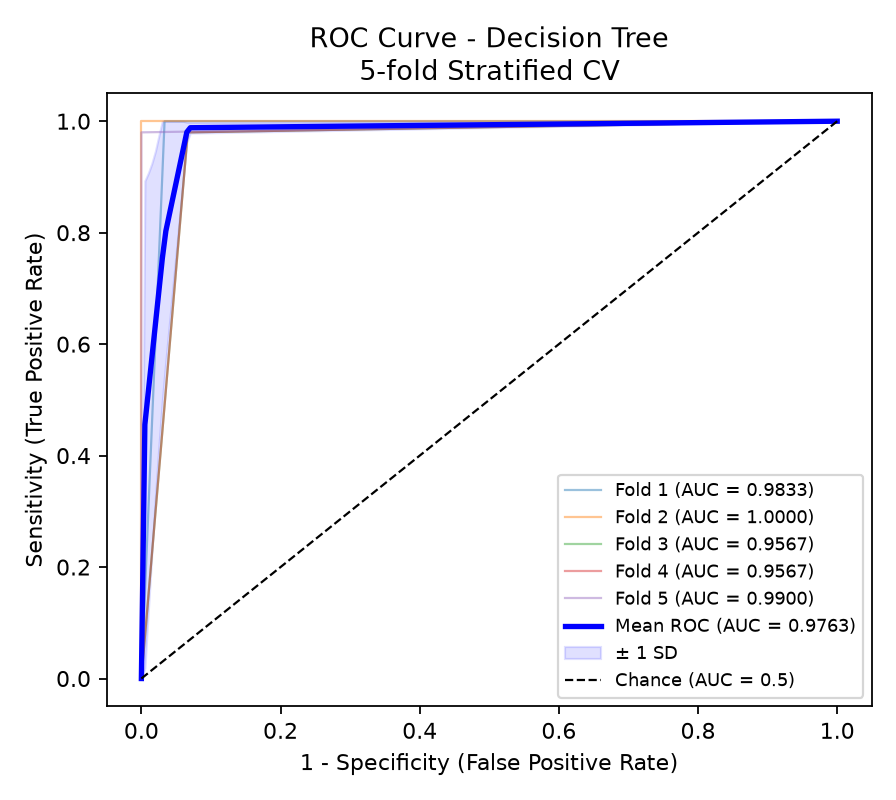
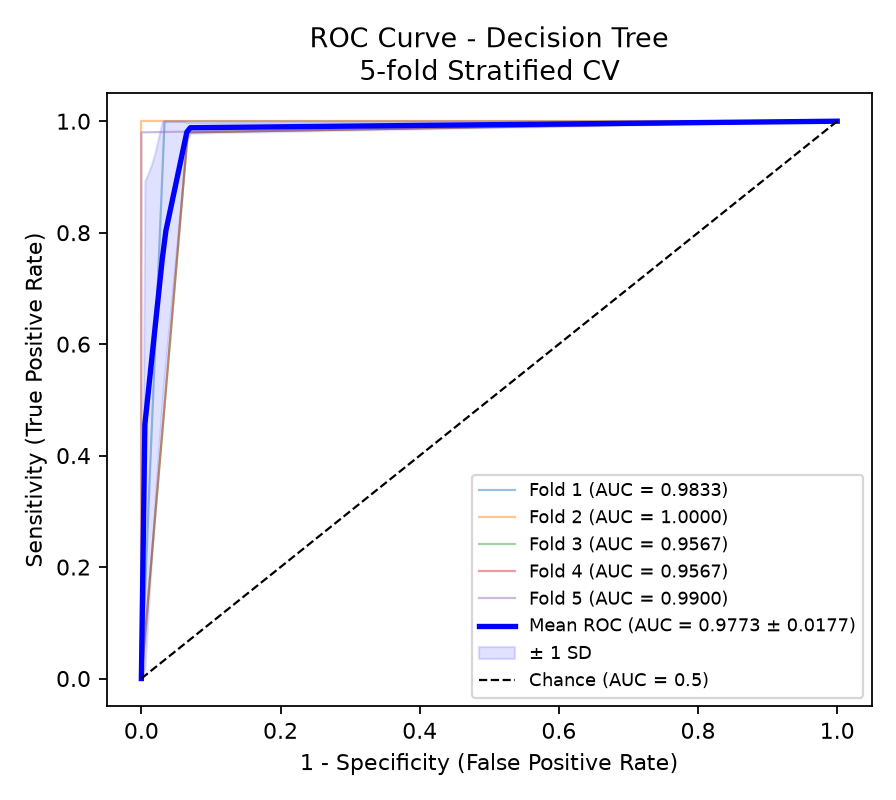
Label ROC mean curve with fold AUC statistics
The "Mean ROC" legend previously reported the area under the interpolated
mean curve (e.g. 0.9974 for Random Forest), which does not equal the mean
of the per-fold AUCs (0.9999) or the pooled out-of-fold AUC (0.9997).
Three near-identical but different AUC values on one page is confusing.

Label the mean curve with mean +/- SD of the fold AUCs instead, following
the scikit-learn convention, so the figure agrees with the results
tables. Add an appendix explaining why the quantities differ and which
one to quote, plus a reproducibility appendix.

Claude-Session: https://claude.ai/code/session_01GvFdcChmFKGp7jgiufpoDa

Changed region(s): [[0.5312, 0.5938, 0.9375, 0.875]]

diff --git a/src/ckd_pipeline.py b/src/ckd_pipeline.py
@@ -270,8 +270,14 @@ def plot_roc(res, tag, outdir):
         t = np.interp(mean_fpr, fpr, tpr); t[0] = 0.0
         tprs.append(t)
     mean_tpr = np.mean(tprs, axis=0); mean_tpr[-1] = 1.0
+    fold_aucs = [a for _, _, a in res["roc_curves"]]
+    # Label with mean +/- SD of the FOLD AUCs (scikit-learn convention). The
+    # area under the interpolated mean curve is not identical to the mean of
+    # the fold areas, so quoting the fold statistics avoids a confusing third
+    # number alongside the per-fold and pooled AUCs in the results tables.
     ax.plot(mean_fpr, mean_tpr, "b-", lw=2.4,
-            label=f"Mean ROC (AUC = {auc(mean_fpr, mean_tpr):.4f})")
+            label=f"Mean ROC (AUC = {np.mean(fold_aucs):.4f} "
+                  f"$\\pm$ {np.std(fold_aucs):.4f})")
     sd = np.std(tprs, axis=0)
     ax.fill_between(mean_fpr, np.maximum(mean_tpr - sd, 0),
                     np.minimum(mean_tpr + sd, 1), color="b", alpha=0.12,

diff --git a/REPORT.md b/REPORT.md
@@ -325,3 +325,36 @@ difficulty of real-world screening, and the models should not be treated as clin
 validated. Future work: external validation on an independent cohort, decision-threshold
 tuning to trade specificity for sensitivity, missing-indicator features to exploit
 informative missingness, and nested cross-validation for unbiased hyperparameter tuning.
+
+---
+
+## Appendix A — A note on the three AUC values
+
+Three AUC numbers appear in this project and they are *not* expected to be identical:
+
+1. **Per-fold AUC** — computed within one held-out fold (Table 3 reports mean ± SD).
+2. **Pooled out-of-fold AUC** — one AUC over all 400 out-of-fold scores (Table 1).
+3. **The AUC printed on the ROC figures** — labelled as the mean ± SD of the *fold*
+   AUCs, following the scikit-learn convention.
+
+The area under the *interpolated mean* ROC curve is a fourth quantity and is slightly
+lower than the mean of the fold areas (interpolating five near-square curves onto a
+common FPR grid rounds off their corners). The figures therefore quote the mean of the
+fold AUCs rather than the area of the drawn mean curve, so that the number on the plot
+matches Table 3. If your teacher asks for "the AUC", quote the **pooled out-of-fold
+AUC** from Table 1 and state that it is out-of-fold.
+
+## Appendix B — Reproducibility
+
+| Item | Value |
+|---|---|
+| `random_state` | 42 (splits and all models) |
+| CV | `StratifiedKFold(n_splits=5, shuffle=True, random_state=42)` |
+| Fold composition | every test fold: 50 CKD + 30 notckd |
+| Verified with | pandas 3.0.5, scikit-learn 1.9.0, numpy 2.4.6 |
+| Notebook | 53 cells, executed end-to-end with 0 errors |
+
+The cleaning step casts categorical columns to `object`/`np.nan` rather than leaving
+them as pandas nullable `string`, because scikit-learn's `SimpleImputer` cannot consume
+the `pd.NA` sentinel that pandas ≥ 3.0 produces by default. The same code therefore runs
+unchanged on pandas 2.x (Colab's current version) and 3.x.
